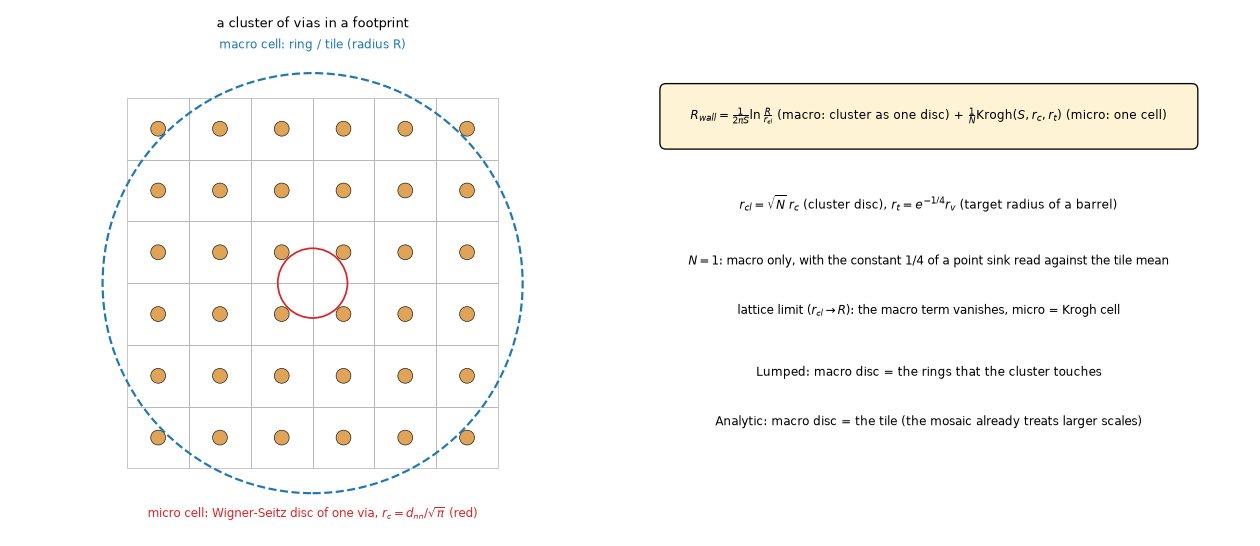
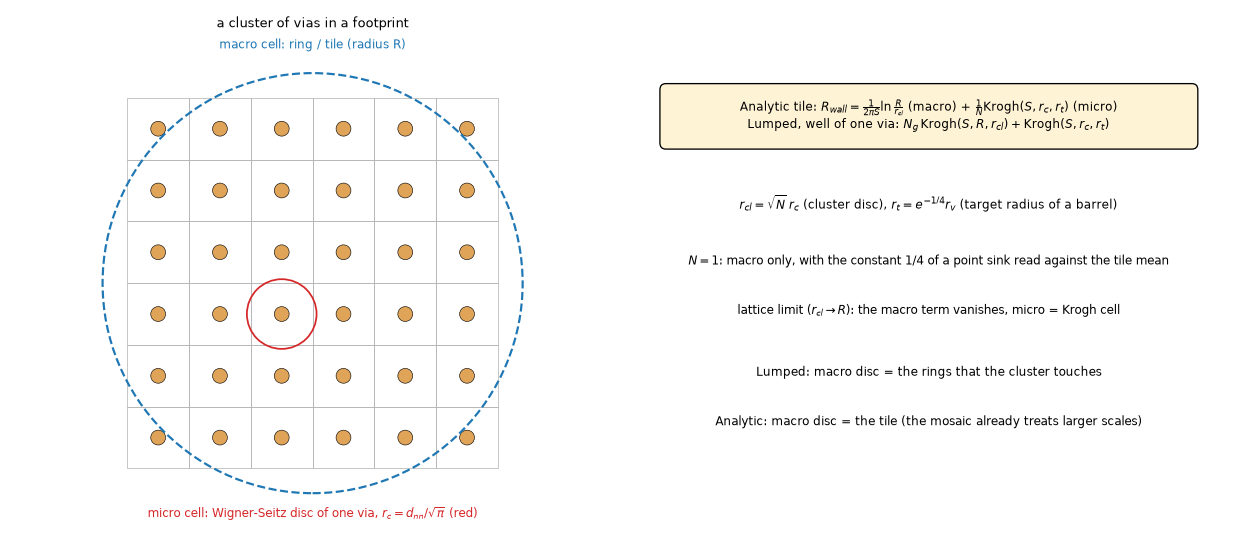
Key the Analytic patch cache by content; draw the micro cell on a via
The nearest-neighbour cache of lib/analytic_patch.py was keyed by
id(problem): a moved via kept stale distances and a new problem that
reused a freed id raised a KeyError (tests/test_stackup.py with the
patches installed). Add a regression test. Figure 4 drew the micro cell
between four vias and gave only the Analytic formula.

Claude-Session: https://claude.ai/code/session_01NsfnySABtTnfYfYFzLoyJj

Changed region(s): [[0.5571, 0.1868, 0.9286, 0.2491], [0.2167, 0.4982, 0.2786, 0.5916], [0.2167, 0.6227, 0.2476, 0.6538]]

diff --git a/research/lumped-analytic-vias/lib/analytic_patch.py b/research/lumped-analytic-vias/lib/analytic_patch.py
@@ -38,18 +38,40 @@ import constriction as cr                                                   # no
 
 OPTIONS = {"mode": "off", "eta": cr.ETA, "spread": "none", "c": 0.25, "iso": 0.7, "dscale": 1.0, "mscale": 1.0, "tile_k": 0.0, "tile_min": 1.0, "guard": 0.5, "tile_cap": 0.0}
 MAX_ACTIVE = 1200                                                           # most tiles of the system that the refinement may create
-NN = {}                                                                     # id(via) -> nearest-neighbour distance of the problem being solved
+NN = {}                                                                     # vkey(via) -> nearest-neighbour distance of the problem being solved
+
+
+def vkey(v):
+    """!
+    @brief Key of a via in the nearest-neighbour cache: its position (two vias at the same point are the same sink).
+    @param v The via.
+    @return tuple (x, y) in m.
+    """
+    return (float(v.x), float(v.y))
+
+
+def _content_key(problem):
+    """!
+    @brief Content key of the geometry the cache depends on (via positions and heater footprints).
+    @details The first version keyed the cache by id(problem): CPython reuses the id of a freed object, so a new problem could
+             meet the cache of an old one (a KeyError in tests/test_stackup.py with the patches installed, found by the review, or
+             silently stale distances when the via objects were also reallocated at the same addresses).
+    @param problem The Problem.
+    @return tuple Hashable key.
+    """
+    return (tuple(vkey(v) for v in problem.vias), tuple(tuple(map(tuple, h.polygon)) for h in problem.heaters))
 
 
 def _nn_distances(problem):
     """!
-    @brief Nearest-neighbour distance of every via of a problem (cached by the identity of the via objects).
+    @brief Nearest-neighbour distance of every via of a problem and its distance to the nearest heater (cached by the content of the problem).
     @param problem The Problem.
-    @return dict id(via) -> distance in m (inf for a lone via).
+    @return dict vkey(via) -> distance in m (inf for a lone via) and ("heater", vkey(via)) -> distance to the nearest footprint in m.
     """
-    if NN.get("_for") != id(problem):
+    key = _content_key(problem)
+    if NN.get("_for") != key:
         NN.clear()
-        NN["_for"] = id(problem)
+        NN["_for"] = key
         pts = np.array([(v.x, v.y) for v in problem.vias])
         if len(pts) > 1:
             from scipy.spatial import cKDTree
@@ -57,8 +79,8 @@ def _nn_distances(problem):
         else:
             d = np.full(len(pts), np.inf)
         for v, dv in zip(problem.vias, d):
-            NN[id(v)] = float(dv)
-            NN[("heater", id(v))] = _heater_distance(problem, v)
+            NN[vkey(v)] = float(dv)
+            NN[("heater", vkey(v))] = _heater_distance(problem, v)
     return NN
 
 
@@ -128,7 +150,7 @@ def _spread_via(c_via, v, a, bb, tw, th, ntx, nty, cond, problem):
     @param problem The Problem (for the nearest-neighbour distances).
     @return None.
     """
-    for (r, c), w in _weights(v, tw, th, ntx, nty, _nn_distances(problem)[id(v)], _nn_distances(problem)[("heater", id(v))]).items():
+    for (r, c), w in _weights(v, tw, th, ntx, nty, _nn_distances(problem)[vkey(v)], _nn_distances(problem)[("heater", vkey(v))]).items():
         c_via[r, c] += w * cond
 
 
@@ -159,7 +181,7 @@ def _self_terms(G, active, tw, th, S, L, problem):
     # Effective number of vias of every tile, the sum of their weights times radius, and of their nearest-neighbour distances
     n_eff, rsum, dsum = {}, {}, {}
     for iv, v in enumerate(problem.vias):
-        for key, w in _weights(v, tw, th, ntx, nty, d_nn[iv], _nn_distances(problem)[("heater", id(v))]).items():
+        for key, w in _weights(v, tw, th, ntx, nty, d_nn[iv], _nn_distances(problem)[("heater", vkey(v))]).items():
             n_eff[key] = n_eff.get(key, 0.0) + w
             rsum[key] = rsum.get(key, 0.0) + w * v.diameter / 2.0
             dsum[key] = dsum.get(key, 0.0) + w * d_nn[iv]
@@ -206,7 +228,7 @@ def _tile_grid_vias(W, H, lam, problem):
     if (OPTIONS["tile_k"] <= 0 and OPTIONS["tile_cap"] <= 0) or not problem.vias:
         return ntx, nty, tw, th
     t = min(tw, th)
-    d = np.array(list(_nn_distances(problem)[id(v)] for v in problem.vias))
+    d = np.array(list(_nn_distances(problem)[vkey(v)] for v in problem.vias))
     d = d[np.isfinite(d)]
     if OPTIONS["tile_k"] > 0 and len(d):
         t = min(t, max(OPTIONS["tile_min"] * 1e-3, OPTIONS["tile_k"] * float(np.median(d))))

diff --git a/research/lumped-analytic-vias/scripts/make_diagrams.py b/research/lumped-analytic-vias/scripts/make_diagrams.py
@@ -162,13 +162,14 @@ def fig_cells(path):
             a.add_patch(Rectangle((i - 0.5 + 0.5, j - 0.5 + 0.5), 1, 1, facecolor="none", edgecolor="0.7", linewidth=0.5))
             a.add_patch(Circle((i + 0.5 + 0.0, j + 0.5), 0.12, facecolor=dk.COPPER, edgecolor="k", linewidth=0.4))
     a.add_patch(Circle((3.0, 3.0), 3.4, facecolor="none", edgecolor=dk.BLUE, linewidth=1.5, linestyle="--"))
-    a.add_patch(Circle((3.0, 3.0), 0.564 * 1.0, facecolor="none", edgecolor=dk.HEAT, linewidth=1.2))
+    # The micro cell is centred on a via (the review found it drawn between four vias)
+    a.add_patch(Circle((2.5, 2.5), 0.564 * 1.0, facecolor="none", edgecolor=dk.HEAT, linewidth=1.2))
     a.text(3.0, 6.8, "macro cell: ring / tile (radius R)", ha="center", fontsize=8, color=dk.BLUE)
     a.text(3.0, -0.8, "micro cell: Wigner-Seitz disc of one via, $r_c = d_{nn}/\\sqrt{\\pi}$ (red)", ha="center", fontsize=8, color=dk.HEAT)
     a.set_title("a cluster of vias in a footprint", fontsize=9)
     b.set_xlim(0, 10)
     b.set_ylim(0, 8)
-    dk.box(b, 0.5, 6.2, 9, 1.0, "$R_{wall} = \\frac{1}{2\\pi S}\\ln\\frac{R}{r_{cl}}$ (macro: cluster as one disc) $+\\ \\frac{1}{N}\\mathrm{Krogh}(S, r_c, r_t)$ (micro: one cell)", "#fff3d6", size=8.5)
+    dk.box(b, 0.5, 6.2, 9, 1.0, "Analytic tile: $R_{wall} = \\frac{1}{2\\pi S}\\ln\\frac{R}{r_{cl}}$ (macro) $+\\ \\frac{1}{N}\\mathrm{Krogh}(S, r_c, r_t)$ (micro)\nLumped, well of one via: $N_g\\,\\mathrm{Krogh}(S, R, r_{cl}) + \\mathrm{Krogh}(S, r_c, r_t)$", "#fff3d6", size=8.5)
     b.text(5, 5.2, "$r_{cl}=\\sqrt{N}\\,r_c$ (cluster disc), $r_t=e^{-1/4}r_v$ (target radius of a barrel)", ha="center", fontsize=8.5)
     b.text(5, 4.3, "$N=1$: macro only, with the constant 1/4 of a point sink read against the tile mean", ha="center", fontsize=8)
     b.text(5, 3.5, "lattice limit ($r_{cl}\\to R$): the macro term vanishes, micro = Krogh cell", ha="center", fontsize=8)

diff --git a/research/lumped-analytic-vias/tests/test_via_constriction.py b/research/lumped-analytic-vias/tests/test_via_constriction.py
@@ -201,3 +201,21 @@ def test_analytic_fine_tiles_resolve_a_dense_array(libs):
     err = hz.errors(prob, e_ref, 0.5, ["A_prog", "A_fin"])
     assert abs(err["A_fin"]) < 3.0
     assert abs(err["A_prog"]) > abs(err["A_fin"])
+
+
+def test_nearest_neighbour_cache_follows_the_problem(libs):
+    """!
+    @brief The nearest-neighbour cache of the Analytic patch follows the content of the problem, not its id (review regression).
+    @details The first version keyed the cache by id(problem): a via moved on the same object kept its old distances, and a new problem that
+             reused the id of a freed one raised a KeyError (tests/test_stackup.py with the patches installed).
+    @return None.
+    """
+    p = cases.array(4, 3, 3.5, 0.3, 0.0)
+    d0 = ap._nn_distances(p)[ap.vkey(p.vias[0])]
+    assert d0 == pytest.approx(3.5e-3)
+    for v in p.vias:                                                         # the same object, the array squeezed to 1 mm
+        v.x = 10.5e-3 + (v.x - 10.5e-3) / 3.5
+        v.y = 10.5e-3 + (v.y - 10.5e-3) / 3.5
+    assert ap._nn_distances(p)[ap.vkey(p.vias[0])] == pytest.approx(1.0e-3)
+    q = cases.array(4, 3, 2.0, 0.3, 0.0)                                     # another problem: no KeyError, its own distances
+    assert ap._nn_distances(q)[ap.vkey(q.vias[4])] == pytest.approx(2.0e-3)
